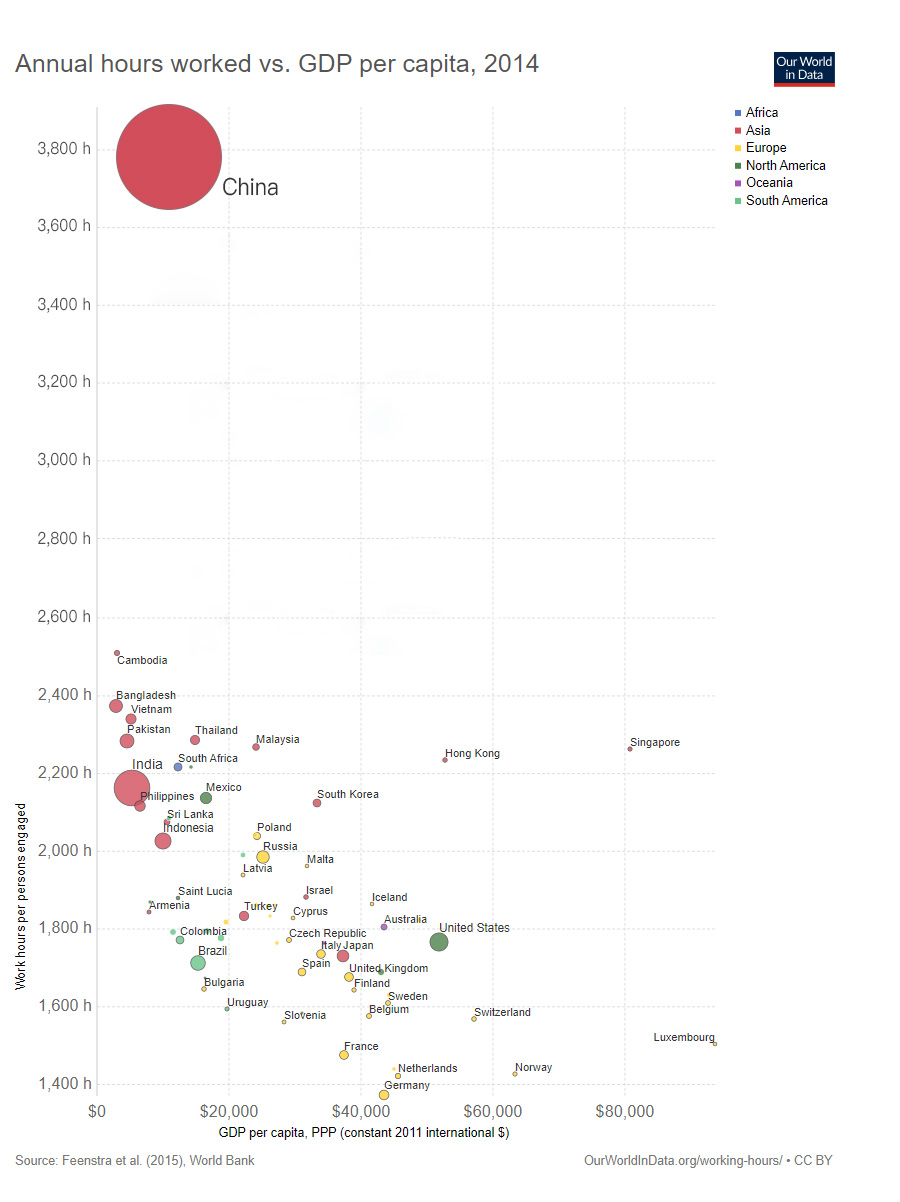
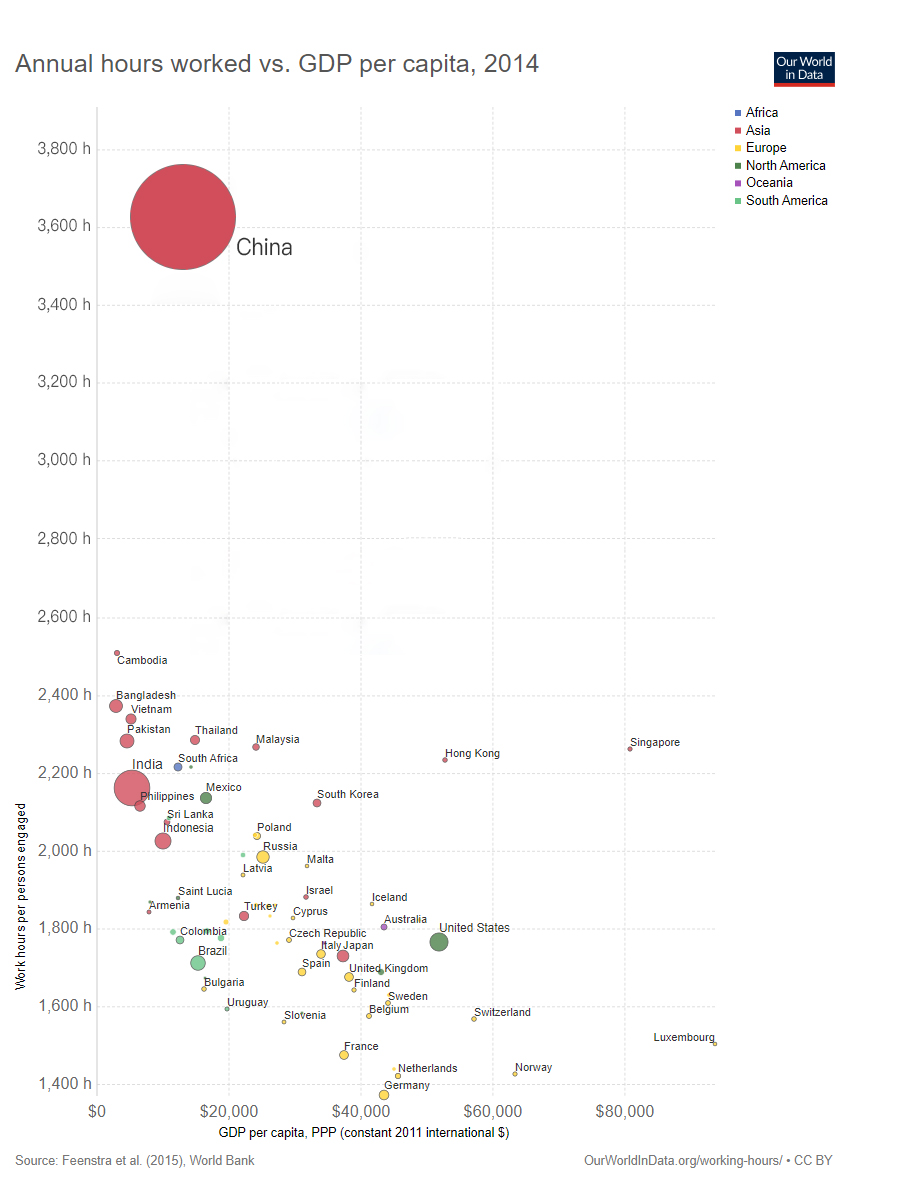
first commit

Changed region(s): [[0.1244, 0.0616, 0.3111, 0.2463]]

diff --git a/README.md b/README.md
@@ -16,6 +16,10 @@
 ----
 ### 正文开始
 ## 世界各国工作时间与人均GDP之比
+在中国，按照996，每天工作10个小时来计算，一名程序员一年工作时长为3600小时，或者更多。而中国的人均收入只有一万美元每年，由于中国贫富差距非常大，能真正达到年均一万美元收入的人实则更少...
+
+所以经计算，中国的 工作时间与人均GDP之比 应当如下
+
 ![世界各国工作时间与人均GDP之比](https://github.com/946629031/Blog/blob/master/img/gdppercapita-vs-annual-hours-worked.jpg)
 [image sours](https://ourworldindata.org/grapher/exports/gdppercapita-vs-annual-hours-worked.svg
 )
